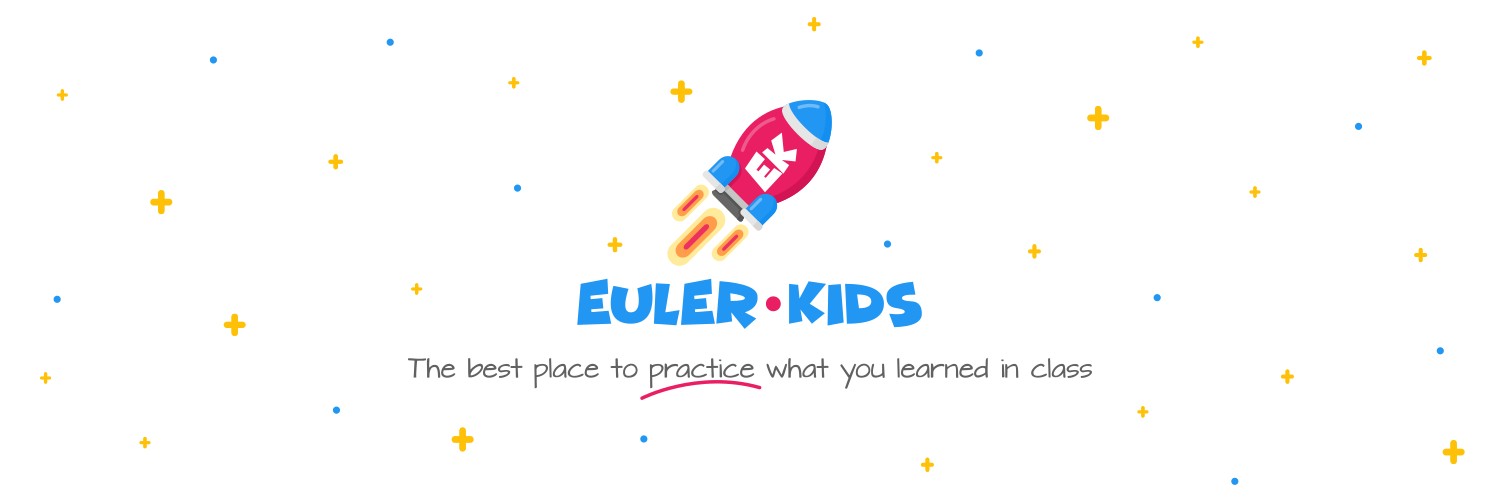
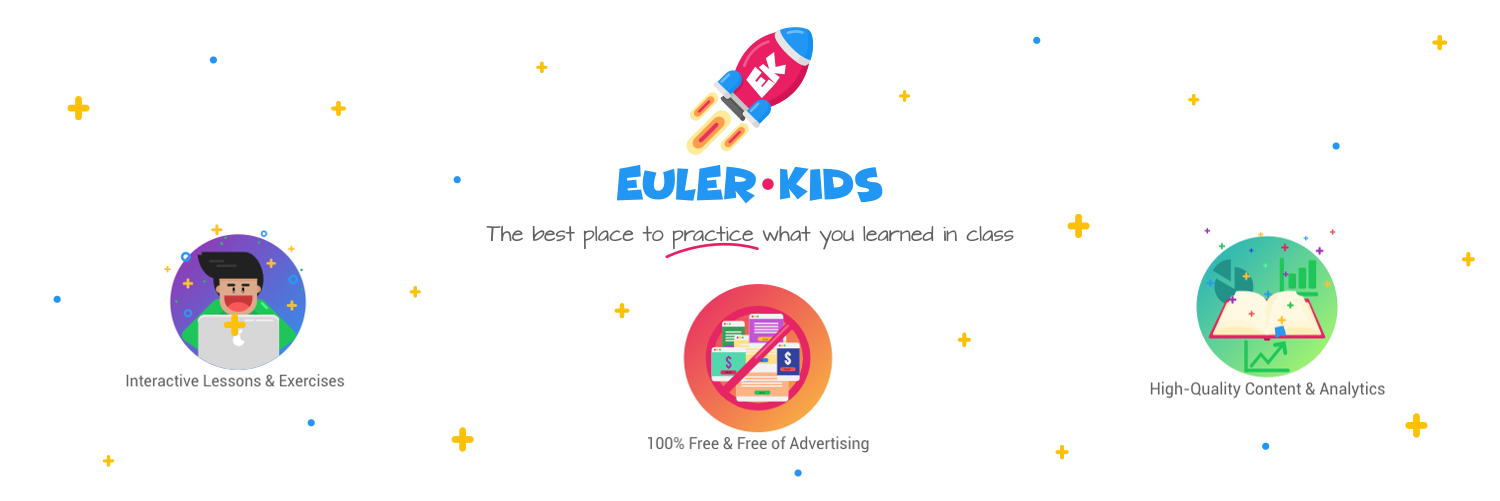
Cover github

diff --git a/README.md b/README.md
@@ -2,6 +2,13 @@
 
 ![alt text](https://raw.githubusercontent.com/andresperezc/EulerKids/master/static/CoverGithub/ekCoverGit.png?token=AQdMHmenQpuvAup8Mw8lvG-v_Ltvqwm3ks5b2KhIwA%3D%3D)
 
+It features a search engine, computer analysis distributed with fishnet, tournaments, simuls, 
+forums, teams, tactic trainer, a mobile app, and a shared analysis board. 
+The UI is available in more than 80 languages thanks to the community.
+
+EulerKids is written in Javascript, and relies on [Express](http://expressjs.com/) for the routing and JSON. 
+It uses [MongoDB](https://www.mongodb.com/) to store exercises, app usage and user progress.
+The web client is written in [Vue.js](https://vuejs.org/). 
 
 ## Project setup
 ```
